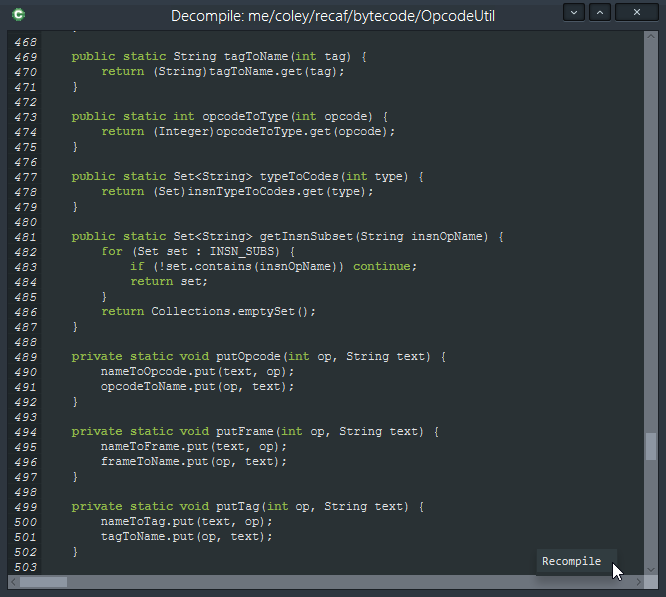
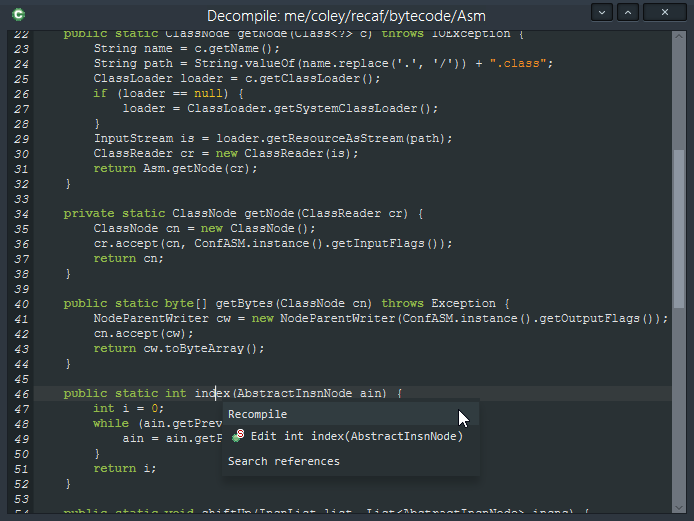
Update docs: More decompilation window features

diff --git a/docs/documentation.html b/docs/documentation.html
@@ -175,6 +175,13 @@
 			<h4 id="uie-cp-d">Decompile</h4>
 			<img class="ci" src="screenshots/uie-class-decompile.png">
 			<p>At the bottom of the Class Panel a decompile button will show the decompiled code using <a href="http://www.benf.org/other/cfr/">CFR</a>. If you are running recaf via the JDK you can also edit this code and recompile it. To recompile the decompiled code, right click and select <i>"Recompile"</i>. Since decompilation is not always perfect this may not be viable in complex or obfuscated classes, but works very well in small and simplistic classes.</p>
+			<p>This window also attempts to use the JavaParser api to detect referenced classes, fields, and methods. This allows the the following functionality:</p>
+			<ul>
+				<li>Jumping to member definitions</li>
+				<li>Searching for member references</li>
+				<li>Searching for class references</li>
+			</ul>
+			<p>The code parser also allows this detection in method bodies. Most items will support some action when right-clicked.</p>
 			<h4 id="uie-cp-f">Fields Table</h4>
 			<img class="ci" src="screenshots/uie-class-fields.png">
 			<p>The fields table shows all fields in the class in a sortable table. The colums are the field's access modifiers, type, and name. Clicking on the category header will sort the table by that value.</p>
